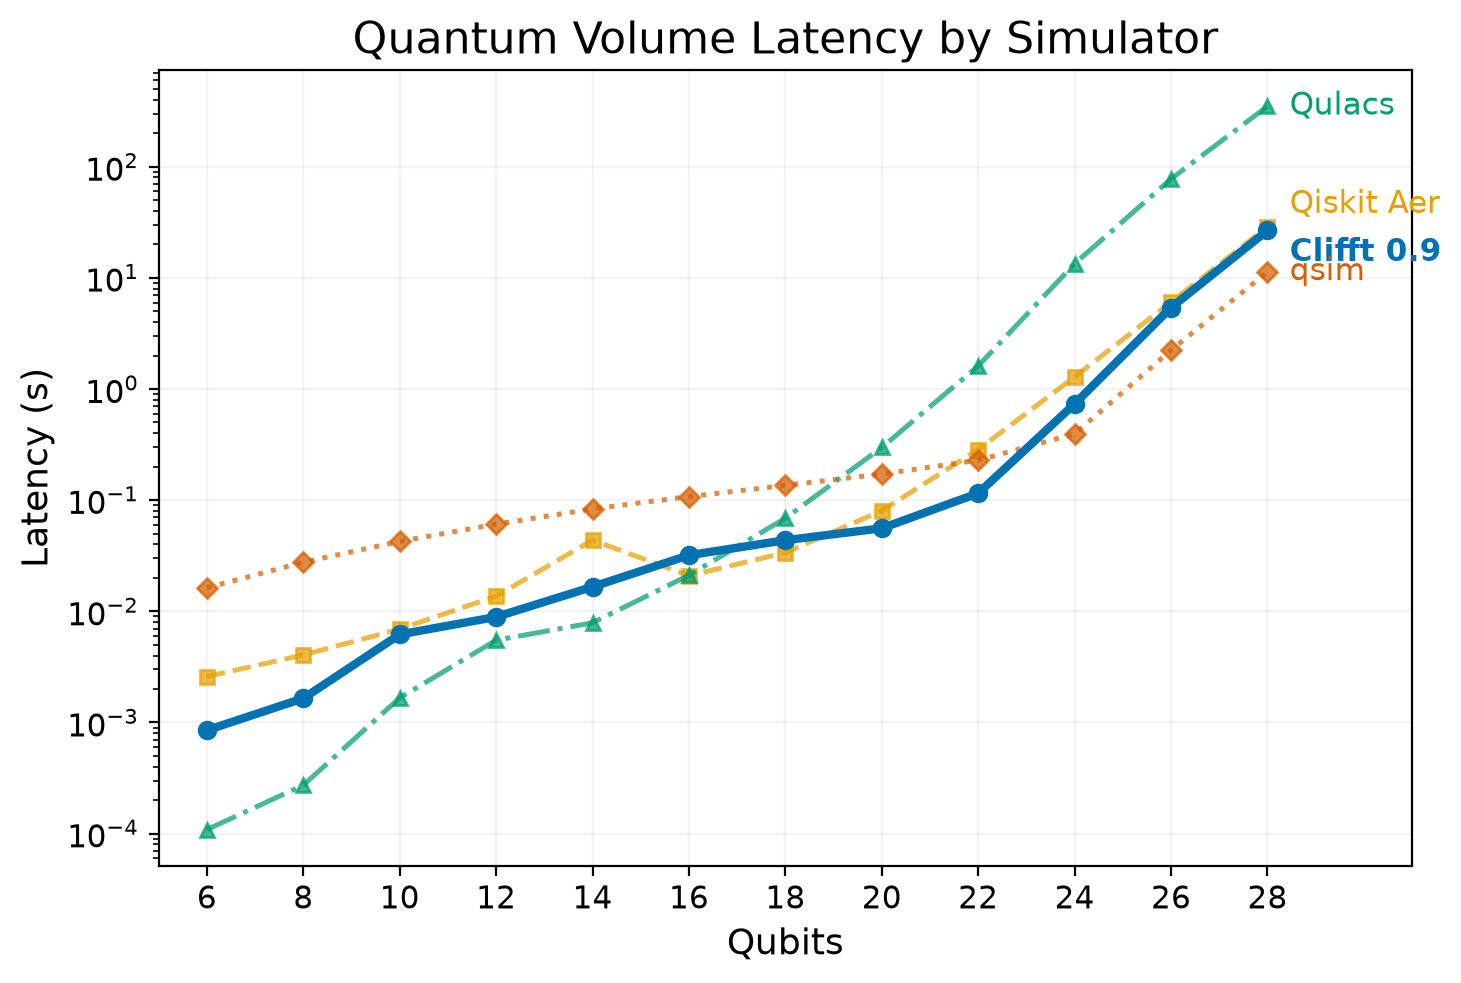
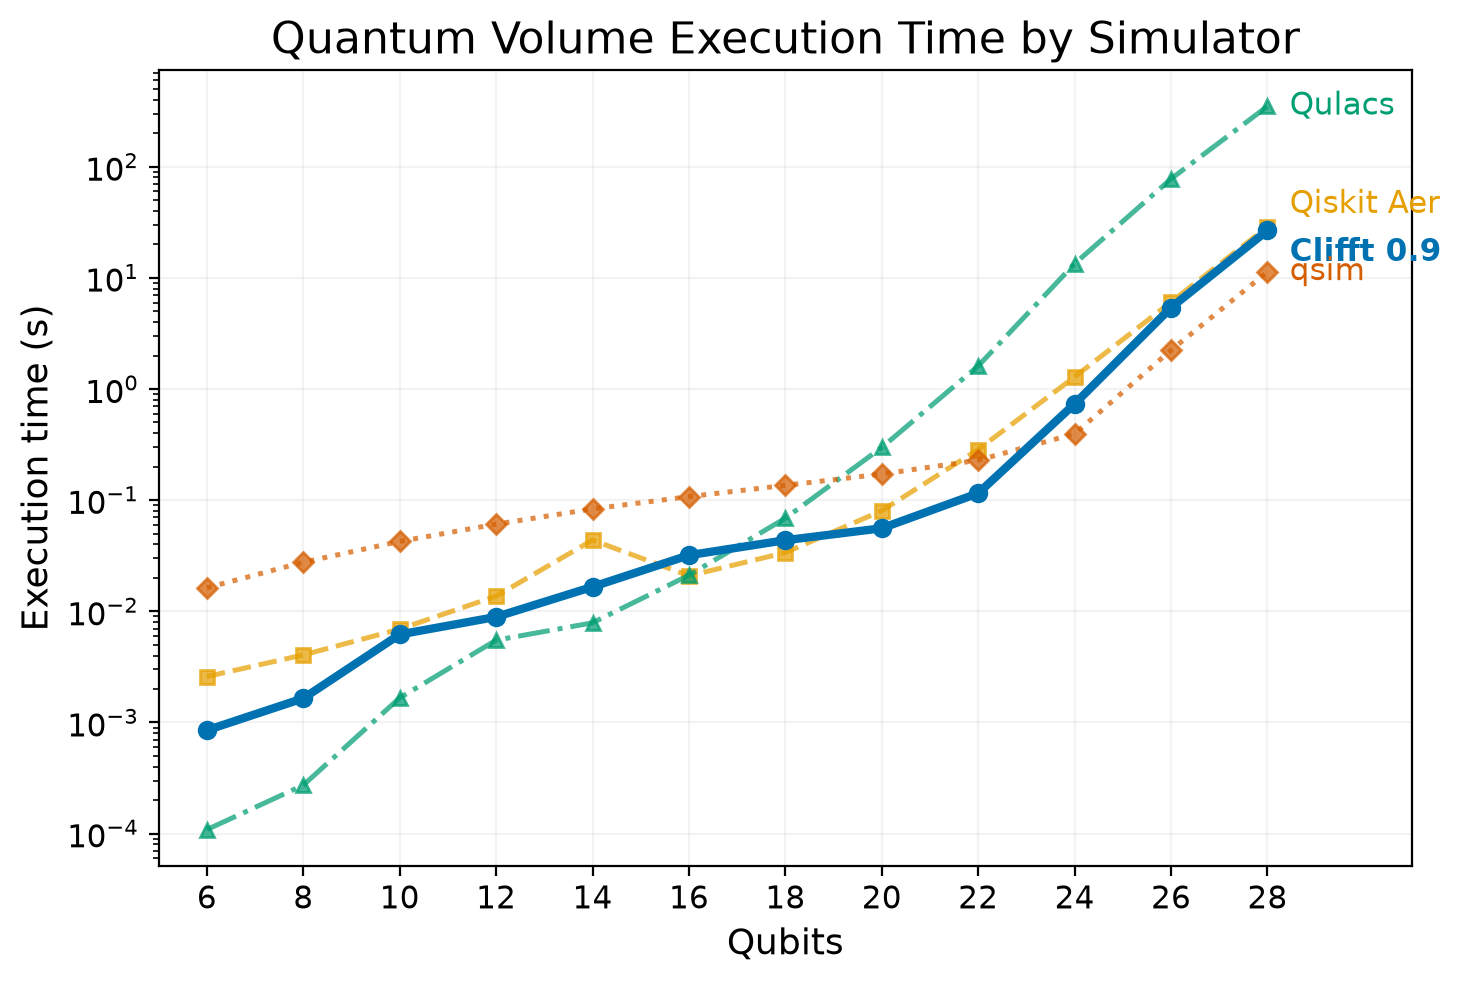
docs: address benchmark results review

Changed region(s): [[0.1848, 0.0, 0.8932, 0.061], [0.0, 0.3052, 0.0308, 0.6409]]

diff --git a/scripts/plot_qv.py b/scripts/plot_qv.py
@@ -139,8 +139,8 @@ def _plot_current_tools(axis: Axes, rows: list[dict[str, str]]) -> None:
     axis.set_xticks(range(6, 29, 2))
     axis.set_xlim(5.0, 31.0)
     axis.set_xlabel("Qubits")
-    axis.set_ylabel("Latency (s)")
-    axis.set_title("Quantum Volume Latency by Simulator")
+    axis.set_ylabel("Execution time (s)")
+    axis.set_title("Quantum Volume Execution Time by Simulator")
     axis.grid(which="major")
 
 
@@ -281,7 +281,7 @@ def plot(input_path: Path, output_base: Path, *, write_pdf: bool = False) -> lis
     outputs = _save_figure(
         current_figure,
         output_base.parent / f"{output_base.name}-current-tools",
-        title="Current-tool Quantum Volume latency",
+        title="Current-tool Quantum Volume execution time",
         write_pdf=write_pdf,
     )
     outputs.extend(

diff --git a/README.md b/README.md
@@ -6,8 +6,8 @@ near-Clifford circuit simulators.
 
 > [!NOTE]
 > This is an evolving benchmark. We plan to add circuits, tools, and hardware
-> backends, including GPU campaigns. Results from different hardware epochs or
-> measurement contracts should not be compared directly.
+> backends, including GPU campaigns. Results collected on different hardware
+> or under different measurement rules should not be compared directly.
 
 This repository is both a benchmark harness and an evidence archive. Official
 performance data is collected on named reference hosts and checked in with its
@@ -18,10 +18,18 @@ raw provenance and reproducible derived tables.
 1. [Did a new Clifft release improve performance?](#current-single-core-qec-results)
 2. [How does current Clifft compare with current alternatives?](#current-single-core-qec-results)
 3. [How has Clifft changed across its release history?](#clifft-release-history)
-4. [What absolute throughput was observed on a named hardware epoch?](#current-single-core-qec-results)
-5. [How does Clifft compare and scale on wide, multicore circuits?](#quantum-volume-multicore-results)
+4. [How does Clifft perform on non-Clifford workloads compared with general-purpose state-vector simulators?](#quantum-volume-multicore-results)
 
 ## Current answers (August 2026)
+
+[SymFT](https://arxiv.org/abs/2607.28600) is another CPU simulator targeting
+near-Clifford circuits. We benchmark its
+[recorded implementation](https://github.com/haoliri0/SymFT_Test), which has
+separate single-shot and batched backends, using single-shot execution plus
+batch sizes 32 and 2048 on the same pinned core. This separates native
+single-shot performance from the additional throughput available by processing
+independent shots together; comparisons use the fastest applicable SymFT mode
+per workload.
 
 ### Current single-core QEC results
 
@@ -68,9 +76,14 @@ and
 
 ### Clifft release history
 
-The largest broad improvement arrived in 0.8.0. On the shared corpus, 0.9.0 is
-faster than 0.1.0 on all eight workloads, with a median per-workload speedup of
-1.93x and a range of 1.18x to 16.89x.
+The largest broad improvement arrived in 0.8.0, when Clifft replaced its
+localized-Pauli virtual machine with a symbolic-coordinate compiler that moves
+frame and dependency work into planning and applies active-Pauli operations
+directly. Version 0.9.0 then removed global-phase bookkeeping, absorbed more
+Clifford-valued rotations during compilation, and vectorized important active
+measurement kernels. On the shared corpus, 0.9.0 is faster than 0.1.0 on all
+eight workloads, with a median per-workload speedup of 1.93x and a range of
+1.18x to 16.89x.
 
 ![Clifft throughput across releases](figures/clifft-history-v1-20260825-r1.png)
 
@@ -86,7 +99,7 @@ faster than 0.1.0 on all eight workloads, with a median per-workload speedup of
 | 0.8.0 | 1.59x | 1.14x-15.43x | 8/8 |
 | 0.9.0 | **1.93x** | **1.18x-16.89x** | **8/8** |
 
-This campaign uses one placement on the same single-core QEC hardware epoch as
+This campaign uses one placement with the same single-core QEC host setup as
 the current-tools campaign. See the
 [`cases.csv`](results/clifft-history-v1/clifft-history-v1-20260825-r1/cases.csv)
 and
@@ -95,14 +108,19 @@ for every workload and release.
 
 ### Quantum Volume multicore results
 
-#### Current-tool latency
+Clifft targets near-Clifford circuits, but dense non-Clifford Quantum Volume
+circuits drive its active width to all qubits and require carrying the full
+`2^n` state vector. This campaign probes that dense limit against Qiskit Aer,
+Qulacs, and qsim, and measures how one wide Clifft shot scales across cores.
 
-![QV current-tool latency](figures/qv-multicore-v1-2026082-current-tools.png)
+#### Current-tool execution time
 
-At 16 physical cores, Clifft 0.9.0 has the lowest median single-shot latency of
-the four measured tools at QV20 and QV22. The relative ordering changes with
-circuit width, so the full curve is more informative than one aggregate
-ranking.
+![QV current-tool execution time](figures/qv-multicore-v1-2026082-current-tools.png)
+
+At 16 physical cores, Clifft 0.9.0 has the shortest median single-shot
+execution time of the four measured tools at QV20 and QV22. The relative
+ordering changes with circuit width, so the full curve is more informative
+than one aggregate ranking.
 
 #### Clifft strong scaling
 
@@ -121,10 +139,10 @@ Lines connect seed medians; scaling whiskers show the seed range. See the
 - QEC throughput counts attempted shots, including shots discarded by detector
   postselection.
 - QEC campaigns are single-core throughput measurements. The QV campaign is a
-  separate single-shot, multicore latency experiment.
+  separate single-shot, multicore execution-time experiment.
 - Raw JSON is authoritative. CSV tables and figures are derived views.
-- Absolute values belong to their named hardware epoch; use an anchor run when
-  moving to new hardware.
+- Absolute values are tied to their recorded hardware; rerun an anchor version
+  when moving to a new host.
 
 The eight shared QEC workloads are the comparison core. QV10 and QV20 remain as
 historical appendix workloads but are not part of the current cross-tool QEC

diff --git a/docs/qv-multicore.md b/docs/qv-multicore.md
@@ -3,8 +3,8 @@
 This occasional campaign answers two questions that do not fit the single-core
 QEC throughput suite:
 
-1. How does Clifft 0.9.0 single-shot latency compare with Qiskit Aer, Qulacs,
-   and qsim at a fixed 16-physical-core budget?
+1. How does Clifft 0.9.0 single-shot execution time compare with Qiskit Aer,
+   Qulacs, and qsim at a fixed 16-physical-core budget?
 2. How does Clifft's intra-shot OpenMP implementation scale from 1 to 16
    physical cores on wide Quantum Volume circuits?
 
@@ -119,14 +119,14 @@ placement, and hardware epoch without changing how measurements are collected.
 
 ## Collected result
 
-### Current-tool latency
+### Current-tool execution time
 
-![QV current-tool latency](../figures/qv-multicore-v1-2026082-current-tools.png)
+![QV current-tool execution time](../figures/qv-multicore-v1-2026082-current-tools.png)
 
-At 16 physical cores, Clifft 0.9.0 has the lowest median single-shot latency of
-the four measured tools at QV20 and QV22. The log scale also makes clear that
-the relative ordering changes with circuit width. This is an exploratory,
-curated comparison, not an exhaustive tool study.
+At 16 physical cores, Clifft 0.9.0 has the shortest median single-shot
+execution time of the four measured tools at QV20 and QV22. The log scale also
+makes clear that the relative ordering changes with circuit width. This is an
+exploratory, curated comparison, not an exhaustive tool study.
 
 ### Clifft strong scaling
 

diff --git a/docs/benchmark-contract.md b/docs/benchmark-contract.md
@@ -126,7 +126,7 @@ Two distinct quantities are recorded:
 
 Clifft exposes no internal shot-batch choice in this API, so its batch size is
 1. SymFT batch sizes are explicit manifest values, never hidden automatic
-choices. A large-batch throughput result is not a single-circuit latency
+choices. A large-batch throughput result is not a single-circuit execution-time
 result.
 Cross-mode tool comparisons are intentional end-to-end configuration
 comparisons, not claims of equal public-call granularity. Derived comparison
@@ -135,8 +135,9 @@ call; reports and plots must display those dimensions.
 SymFT uses native batch size 0 as a disabled sentinel on its single backend; the
 harness records the effective logical batch size as 1 in that mode.
 The Quantum Volume cases therefore request one shot per call with batching
-disabled and are marked as latency measurements; their inverse latency is still
-reported in the common attempted-shots-per-second field.
+disabled and are marked as execution-time measurements; their inverse
+execution time is still reported in the common attempted-shots-per-second
+field.
 
 ## Correctness
 

diff --git a/docs/data-format.md b/docs/data-format.md
@@ -44,7 +44,7 @@ creating plot-specific checked-in data layouts.
 ## QV multicore executions
 
 `qv-multicore-v1` uses the same top-level execution directory but has a smaller
-derived surface suited to latency and strong-scaling plots:
+derived surface suited to execution-time and strong-scaling plots:
 
 ```text
 results/qv-multicore-v1/<execution-id>/
